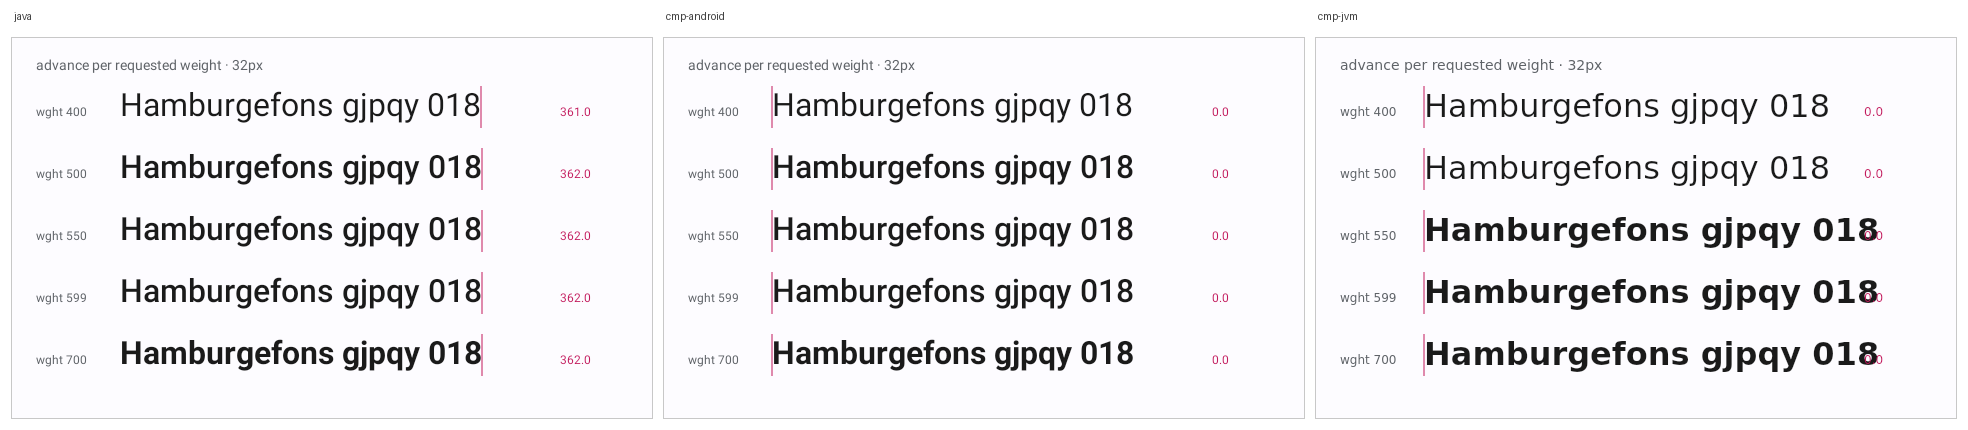
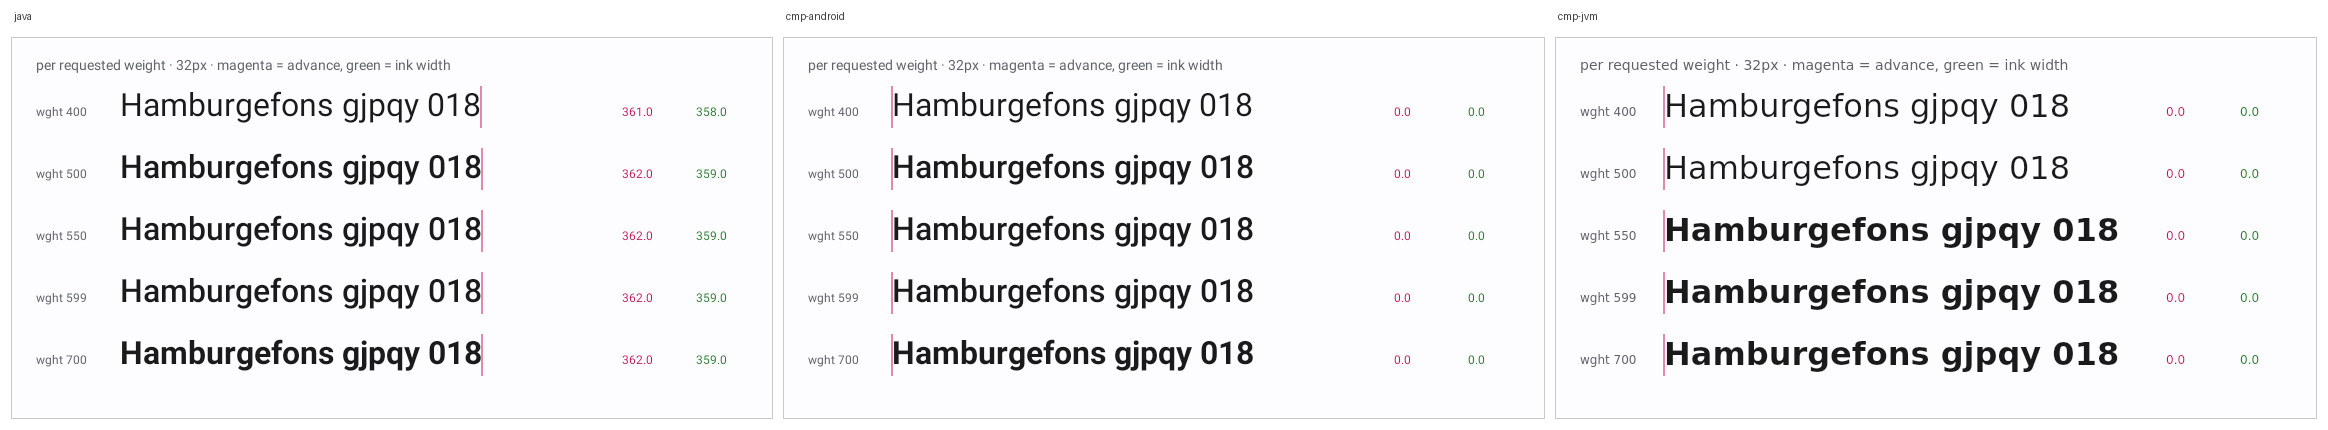
feat(rc-metrics): measure start/end alignment in RTL, and weight with a second number
Both from review on #3599, and both immediately produced findings.

**Start and end alignment, in both directions.** `ALIGN_START` and `ALIGN_END`
are the only alignments whose meaning depends on paragraph direction, and on
English text they land exactly where `ALIGN_LEFT` and `ALIGN_RIGHT` do — so a
six-alignment matrix built only from LTR text passes a lane that hard-coded
start→left while being wrong for every RTL user. The pair is now drawn a second
time against a Hebrew paragraph. All three server-side lanes keep start at the
left edge and end at the right, identically to their LTR twins.

**A second number in the weight sweep.** Equal advances do not prove a reused
face: families are routinely drawn duplexed, keeping advances fixed across
weights on purpose, and the reference render of this very sweep shows 700
visibly bolder than 500 at the same 362.0. Each row now also reports the ink
width, measured off `getTextBounds` rather than `measureText` so it fails
independently. Neither number is a proof alone; the pair read with the glyphs is
a signature — both flat with glyphs visibly bolder means the weight is being
synthesised rather than resolved to a face, which is what the Java lane shows
(362.0 advance / 359.0 ink for 500 through 700).

The claim in the docs is corrected accordingly: the sweep no longer says stacked
rules mean one face drawn five times, because that inference does not hold, and
[…]

diff --git a/rc-player/metrics/src/main/kotlin/ee/schimke/composeai/rcplayer/metrics/RcTextMetricDocuments.kt b/rc-player/metrics/src/main/kotlin/ee/schimke/composeai/rcplayer/metrics/RcTextMetricDocuments.kt
@@ -82,6 +82,21 @@ public object RcTextMetricDocuments {
   /** Short enough to leave slack in the box, without which an alignment is invisible. */
   public const val ALIGNMENT_SPECIMEN: String = "Align this"
 
+  /**
+   * The same job in Hebrew, for the two *semantic* alignments.
+   *
+   * `ALIGN_START` and `ALIGN_END` are the only two alignments whose meaning depends on the
+   * paragraph's direction, and on an English string they land exactly where `ALIGN_LEFT` and
+   * `ALIGN_RIGHT` do. A lane that had simply hard-coded start→left would pass a six-alignment
+   * matrix built only from LTR text while being wrong for every RTL user, so the pair is drawn
+   * twice: once in each direction.
+   *
+   * If a lane has no face covering the script the fixture renders tofu — which still shows *where*
+   * the line was placed, and is itself a font-coverage finding rather than a broken fixture.
+   */
+  public const val RTL_ALIGNMENT_SPECIMEN: String =
+    "\u05e9\u05dc\u05d5\u05dd \u05e2\u05d5\u05dc\u05dd"
+
   /** The weights the sweep draws, including the two non-100 steps that matter in practice. */
   public val SWEEP_WEIGHTS: List<Int> = listOf(400, 500, 550, 599, 700)
 
@@ -201,20 +216,37 @@ public object RcTextMetricDocuments {
   // The weight sweep
   // ---------------------------------------------------------------------------------------------
 
-  private const val SWEEP_WIDTH = 640
+  private const val SWEEP_WIDTH = 760
   private const val SWEEP_ROW_HEIGHT = 62f
   private const val SWEEP_ORIGIN_X = 108f
   private const val SWEEP_SPECIMEN_SIZE = 32f
 
   /**
-   * The same string at five weights, each with its own advance guide and printed advance.
+   * The same string at five weights, each row reporting **two** numbers: the advance, and the width
+   * of the ink box.
    *
    * This is how the variable-font question gets *measured* rather than inferred. #3579 concluded
    * that Google Fonts' CSS API had flattened `wght@450` and `wght@550` to one instance because the
    * two downloads were byte-identical — a strong hint, but a file-size argument. Here the question
-   * is asked of the renderer directly: if the requested weight reaches a real instance, five
-   * weights give five different advances and the magenta rules step apart. If they don't, the rules
-   * stack and the lane is drawing one face five times, whatever the document asked for.
+   * is asked of the renderer directly.
+   *
+   * Two numbers rather than one, because **equal advances do not prove a reused face**. Families
+   * are routinely drawn duplexed on purpose, keeping identical advances across weights while only
+   * the stems thicken. So the advance answers a narrower question than it looks like it answers:
+   * "would this weight reflow the layout". The ink box — `right - left` of `getTextBounds`, a
+   * different measurement off a different code path — fails independently of it.
+   *
+   * Neither number is a proof on its own. What the pair gives you, read together with the glyphs
+   * beside them, is a signature:
+   * - both move → the weight reached a metric-distinct instance;
+   * - both flat, glyphs identical → the weight changed nothing at all;
+   * - both flat, glyphs visibly bolder → the weight is being **synthesised** rather than resolved
+   *   to a face.
+   *
+   * The reference render lands on the third: 362.0 advance and 359.0 ink for 500, 550, 599 and 700
+   * alike, with 700 plainly heavier than 500. Note also that the ink box is integer-quantised
+   * (`Paint.getTextBounds` returns a `Rect`), so it is a coarse instrument at this size — one more
+   * reason to read it as corroboration rather than as the answer.
    *
    * 550 and 599 are in the sweep on purpose. They are the values that fall between the static
    * instances a weight-enumerated stylesheet ships, so they are where a "nearest static instance"
@@ -224,7 +256,13 @@ public object RcTextMetricDocuments {
     val height = (SWEEP_WEIGHTS.size * SWEEP_ROW_HEIGHT + 70f).toInt()
     val operations = buildList {
       add(RcTextData(TEXT_SPECIMEN, SPECIMEN))
-      add(RcTextData(TEXT_TITLE, "advance per requested weight · ${SWEEP_SPECIMEN_SIZE.toInt()}px"))
+      add(
+        RcTextData(
+          TEXT_TITLE,
+          "per requested weight · ${SWEEP_SPECIMEN_SIZE.toInt()}px · " +
+            "magenta = advance, green = ink width",
+        )
+      )
       SWEEP_WEIGHTS.forEachIndexed { index, weight ->
         add(RcTextData(TEXT_SWEEP_LABEL + index, "wght $weight"))
       }
@@ -235,9 +273,11 @@ public object RcTextMetricDocuments {
       SWEEP_WEIGHTS.forEachIndexed { index, weight ->
         val baseline = 78f + index * SWEEP_ROW_HEIGHT
         val floatId = SWEEP_FLOAT_BASE + index
+        val inkFloatId = SWEEP_INK_FLOAT_BASE + index
 
         addAll(textPaint(SPECIMEN_COLOR, SWEEP_SPECIMEN_SIZE, weight = weight))
         add(RcTextMeasure(outId = floatId, textId = TEXT_SPECIMEN, type = RcTextGuide.ADVANCE.type))
+        add(RcTextMeasure(outId = inkFloatId, textId = TEXT_SPECIMEN, type = INK_WIDTH_TYPE))
 
         add(RcNoArg(RcOpcodes.MATRIX_SAVE))
         add(RcTransform2(RcOpcodes.MATRIX_TRANSLATE, literal(SWEEP_ORIGIN_X), literal(baseline)))
@@ -258,14 +298,25 @@ public object RcTextMetricDocuments {
             flags = NO_LEADING_PAD,
           )
         )
-        add(drawText(TEXT_SWEEP_VALUE + index, (SWEEP_WIDTH - 92).toFloat(), baseline))
+        add(drawText(TEXT_SWEEP_VALUE + index, (SWEEP_WIDTH - 150).toFloat(), baseline))
+        addAll(labelPaint(RcTextGuide.INK_RIGHT.colorArgb, LABEL_SIZE))
+        add(
+          RcTextFromFloat(
+            outId = TEXT_SWEEP_INK_VALUE + index,
+            value = reference(inkFloatId),
+            digitsBefore = 3,
+            digitsAfter = 1,
+            flags = NO_LEADING_PAD,
+          )
+        )
+        add(drawText(TEXT_SWEEP_INK_VALUE + index, (SWEEP_WIDTH - 76).toFloat(), baseline))
       }
     }
     return RcTextMetricFixture(
       id = "text-metrics-weight-sweep",
       width = SWEEP_WIDTH,
       height = height,
-      summary = "One string at five weights; the magenta rules are each weight's measured advance.",
+      summary = "One string at five weights, each reporting its measured advance and ink width.",
       document = RcDocument(header(SWEEP_WIDTH, height), operations),
     )
   }
@@ -282,7 +333,12 @@ public object RcTextMetricDocuments {
     val baseline = 78f
     val operations = buildList {
       add(RcTextData(TEXT_SPECIMEN, SPECIMEN))
-      add(RcTextData(TEXT_TITLE, "wght $weight · ${SWEEP_SPECIMEN_SIZE.toInt()}px · advance"))
+      add(
+        RcTextData(
+          TEXT_TITLE,
+          "wght $weight · ${SWEEP_SPECIMEN_SIZE.toInt()}px · advance, ink width",
+        )
+      )
       addAll(background(SWEEP_WIDTH, height))
       addAll(labelPaint(TITLE_COLOR, LABEL_SIZE + 2f))
       add(drawText(TEXT_TITLE, 24f, 32f))
@@ -294,6 +350,9 @@ public object RcTextMetricDocuments {
           textId = TEXT_SPECIMEN,
           type = RcTextGuide.ADVANCE.type,
         )
+      )
+      add(
+        RcTextMeasure(outId = SWEEP_INK_FLOAT_BASE, textId = TEXT_SPECIMEN, type = INK_WIDTH_TYPE)
       )
       add(RcNoArg(RcOpcodes.MATRIX_SAVE))
       add(RcTransform2(RcOpcodes.MATRIX_TRANSLATE, literal(SWEEP_ORIGIN_X), literal(baseline)))
@@ -314,13 +373,24 @@ public object RcTextMetricDocuments {
           flags = NO_LEADING_PAD,
         )
       )
-      add(drawText(TEXT_SWEEP_VALUE, (SWEEP_WIDTH - 92).toFloat(), baseline))
+      add(drawText(TEXT_SWEEP_VALUE, (SWEEP_WIDTH - 150).toFloat(), baseline))
+      addAll(labelPaint(RcTextGuide.INK_RIGHT.colorArgb, LABEL_SIZE))
+      add(
+        RcTextFromFloat(
+          outId = TEXT_SWEEP_INK_VALUE,
+          value = reference(SWEEP_INK_FLOAT_BASE),
+          digitsBefore = 3,
+          digitsAfter = 1,
+          flags = NO_LEADING_PAD,
+        )
+      )
+      add(drawText(TEXT_SWEEP_INK_VALUE, (SWEEP_WIDTH - 76).toFloat(), baseline))
     }
     return RcTextMetricFixture(
       id = "text-metrics-weight-$weight",
       width = SWEEP_WIDTH,
       height = height,
-      summary = "Measured advance of the specimen at wght $weight.",
+      summary = "Measured advance and ink width of the specimen at wght $weight.",
       document = RcDocument(header(SWEEP_WIDTH, height), operations),
     )
   }
@@ -403,6 +473,25 @@ public object RcTextMetricDocuments {
       alignmentModeSpec("align-right", RcTextLayout.ALIGN_RIGHT, "align right"),
       alignmentModeSpec("align-start", RcTextLayout.ALIGN_START, "align start"),
       alignmentModeSpec("align-end", RcTextLayout.ALIGN_END, "align end"),
+      // The same two semantic alignments against an RTL paragraph. Start must flip to the right
+      // edge and end to the left; a lane where these match their LTR twins has resolved `START` to
+      // `LEFT` rather than to the paragraph direction.
+      LayoutMode(
+        "align-start-rtl",
+        2,
+        RcTextLayout.OVERFLOW_CLIP,
+        RcTextLayout.ALIGN_START,
+        RTL_ALIGNMENT_SPECIMEN,
+        "align start · RTL",
+      ),
+      LayoutMode(
+        "align-end-rtl",
+        2,
+        RcTextLayout.OVERFLOW_CLIP,
+        RcTextLayout.ALIGN_END,
+        RTL_ALIGNMENT_SPECIMEN,
+        "align end · RTL",
+      ),
       // Line height is the metric most likely to explain a "heavier"/"looser" block: it moves every
       // baseline after the first without touching a single glyph, so a pixel diff sees a wall of
       // difference and cannot say which of the two knobs moved. Two fixtures, one knob each.
@@ -668,11 +757,22 @@ public object RcTextMetricDocuments {
   private const val TEXT_GUIDE_VALUE_BASE = 140
   private const val TEXT_SWEEP_LABEL = 180
   private const val TEXT_SWEEP_VALUE = 190
+  private const val TEXT_SWEEP_INK_VALUE = 200
 
   // Float ids the measurements write into.
   private const val GUIDE_FLOAT_BASE = 300
   private const val SWEEP_FLOAT_BASE = 340
+  private const val SWEEP_INK_FLOAT_BASE = 350
   private const val MODE_ADVANCE_FLOAT = 360
+
+  /**
+   * `right - left` of the **ink** box — the second, independent number every sweep row reports.
+   *
+   * It comes off `Paint.getTextBounds` rather than `measureText`, so it can disagree with the
+   * advance; that independence, not any claim that it tracks weight reliably, is why it is here. It
+   * is integer-quantised and therefore coarse.
+   */
+  private val INK_WIDTH_TYPE = RcTextMeasurement.type(RcTextMeasurement.WIDTH)
 
   private fun floatId(guide: RcTextGuide) = GUIDE_FLOAT_BASE + guide.ordinal
 

diff --git a/rc-player/metrics/src/test/kotlin/ee/schimke/composeai/rcplayer/metrics/RcTextMetricDocumentsTest.kt b/rc-player/metrics/src/test/kotlin/ee/schimke/composeai/rcplayer/metrics/RcTextMetricDocumentsTest.kt
@@ -132,6 +132,25 @@ class RcTextMetricDocumentsTest {
   }
 
   @Test
+  fun theSemanticAlignmentsAreExercisedInBothDirections() {
+    // `START` and `END` are the only alignments whose meaning depends on paragraph direction, and
+    // on English text they land exactly where `LEFT` and `RIGHT` do. A matrix built only from LTR
+    // text would therefore pass a lane that had hard-coded start→left and is wrong for every RTL
+    // user, so each of the two is drawn once in each direction.
+    val modes = RcTextMetricDocuments.LAYOUT_MODES
+    listOf(RcTextLayout.ALIGN_START, RcTextLayout.ALIGN_END).forEach { align ->
+      val alignmentFixtures = modes.filter {
+        it.align == align && it.specimen != RcTextMetricDocuments.WRAPPING_SPECIMEN
+      }
+      assertTrue(
+        alignmentFixtures.any { it.specimen == RcTextMetricDocuments.ALIGNMENT_SPECIMEN } &&
+          alignmentFixtures.any { it.specimen == RcTextMetricDocuments.RTL_ALIGNMENT_SPECIMEN },
+        "alignment $align is only exercised in one direction",
+      )
+    }
+  }
+
+  @Test
   fun theLayoutModesCoverEveryOverflowAndAlignment() {
     val modes = RcTextMetricDocuments.LAYOUT_MODES
     assertEquals(
@@ -236,7 +255,19 @@ class RcTextMetricDocumentsTest {
     val sweep = RcTextMetricDocuments.weightSweep()
     val measures = sweep.document.operations.filterIsInstance<RcTextMeasure>()
 
-    assertEquals(RcTextMetricDocuments.SWEEP_WEIGHTS.size, measures.size)
+    // Two measurements per weight, and both matter. The advance alone cannot distinguish "the
+    // requested weight reached no new face" from "this family is drawn duplexed, so its weights
+    // deliberately share an advance" — the ink width, which tracks stem thickness, can.
+    assertEquals(RcTextMetricDocuments.SWEEP_WEIGHTS.size * 2, measures.size)
+    assertEquals(
+      RcTextMetricDocuments.SWEEP_WEIGHTS.size,
+      measures.count { it.type == RcTextGuide.ADVANCE.type },
+    )
+    assertEquals(
+      RcTextMetricDocuments.SWEEP_WEIGHTS.size,
+      measures.count { it.type == RcTextMeasurement.type(RcTextMeasurement.WIDTH) },
+      "without a weight-sensitive number the sweep can only ever report the advance",
+    )
     assertEquals(
       measures.size,
       measures.map { it.outId }.toSet().size,

diff --git a/docs/design/RC_TEXT_METRICS.md b/docs/design/RC_TEXT_METRICS.md
@@ -85,11 +85,11 @@ the player thinks the line ends, is then a picture rather than an adjective.
 | fixture | what it answers |
 | --- | --- |
 | `text-metrics-card` | Every metric of one 48px canvas specimen, drawn and labelled. |
-| `text-metrics-weight-{400,500,550,599,700}` | Does the requested weight change the **advance**? |
+| `text-metrics-weight-{400,500,550,599,700}` | Advance **and** ink width, per requested weight. |
 | `text-metrics-weight-sweep` | The same five, stacked, for reading rather than diffing. |
 | `text-metrics-layout-single-*` | `maxLines = 1` against clip / visible / all three ellipses. |
 | `text-metrics-layout-wrap-*` | `maxLines = 3` against clip / ellipsis / justify. |
-| `text-metrics-layout-align-*` | All six `CoreText` alignments. |
+| `text-metrics-layout-align-*` | All six `CoreText` alignments, plus start/end again in RTL. |
 | `text-metrics-layout-line-height-*` | Leading, as an add and as a multiplier (properties 13/14). |
 
 The manifest shape is not new: it is exactly what `rc-compare --stage-embedded` produces and what
@@ -154,12 +154,37 @@ a different *face* than a metrics fault — which is exactly the useful outcome:
 [`RC_PLAYER_TYPEFACES.md`](RC_PLAYER_TYPEFACES.md) rather than at layout, and it is a place to look
 rather than a percentage.
 
-**Weight does not move the advance on `java`.** The sweep reports 361.0 at wght 400 and 362.0 at 500,
-550, 599 and 700 alike, while 700 is visibly bolder than 500. So in the Robolectric sandbox — no
-`/system/fonts/`, so the platform default face — weight quantises to regular/bold and 550 and 599 are
-indistinguishable from 500. The variable-font question from #3579 now has a *measurement* attached to
-it instead of an inference from two identical file sizes; answering it properly needs the same sweep
-run with a real variable face pinned.
+**Weight moves neither number on `java`, but does move the glyphs.** The sweep reports advance
+361.0 / ink 358.0 at wght 400, then 362.0 / 359.0 at 500, 550, 599 and 700 alike — while 700 is
+plainly heavier than 500 in the same image.
+
+Read that carefully, because the obvious reading is wrong. Equal advances **do not** prove a reused
+face: families are routinely drawn duplexed, keeping advances fixed across weights on purpose. That
+is why every row reports a second, independent number off a different code path
+(`Paint.getTextBounds` rather than `measureText`). The pair plus the glyphs is a signature:
+
+| advance | ink width | glyphs | reading |
+| --- | --- | --- | --- |
+| moves | moves | differ | the weight reached a metric-distinct instance |
+| flat | flat | identical | the weight changed nothing at all |
+| flat | flat | differ | the weight is **synthesised**, not resolved to a face |
+
+The reference lane lands on the third row, which is a much more specific answer than "550 and 599
+look the same": in the Robolectric sandbox there is no `/system/fonts/`, so the platform default is
+being emboldened rather than swapped. The variable-font question from #3579 now has a measurement
+attached instead of an inference from two identical file sizes; answering it properly needs the same
+sweep with a real variable face pinned. Note the ink box is integer-quantised, so it is corroboration
+rather than a precise instrument.
+
+**`ALIGN_START` and `ALIGN_END` do not follow paragraph direction on any of the three lanes.** They
+are the only two alignments whose meaning is direction-dependent, and on English text they land
+exactly where `ALIGN_LEFT` and `ALIGN_RIGHT` do — so a matrix built only from LTR text cannot tell a
+correct lane from one that hard-coded start→left. Drawing the pair a second time against a Hebrew
+paragraph shows start still at the left edge and end still at the right, identically on `java`,
+`cmp-android` and `cmp-jvm`. The fixtures carry no explicit layout direction, so the expected
+behaviour is the content-derived one both stacks normally implement (Compose's `TextDirection.Content`,
+Android's `ALIGN_NORMAL` against an RTL paragraph) — which makes this worth chasing rather than
+dismissing as unspecified.
 
 **`maxLines = 3` rendered four lines on `java`**, while `maxLines = 1` was honoured exactly. Recorded
 as an observation, not a diagnosis — it wants checking across lanes before anyone calls it a bug,
@@ -178,6 +203,9 @@ which is what the fixture is for.
 - **A machine-readable metric dump.** The numbers are currently rendered into the image. A per-lane
   JSON table would let the comparison be asserted rather than read, which is what turns this from a
   diagnostic into a gate.
+- **An explicit layout direction.** The RTL alignment fixtures rely on the paragraph direction being
+  derived from content. A variant that states the direction outright would separate "the lane ignores
+  content direction" from "the lane ignores direction entirely".
 - **Font-variation axes.** Weight travels as the paint's typeface style, not as a `wght` axis,
   because the axis path is canvas-unimplemented on some lanes and a fixture meant to be comparable
   across all five must not use an operation two of them decline. An axis-carrying variant belongs

diff --git a/renders/rc-text-metrics/README.md b/renders/rc-text-metrics/README.md
@@ -27,11 +27,26 @@ Two readings, immediately:
 
 ![text-metrics-weight-sweep on java, cmp-android and cmp-jvm](weight-sweep-three-lanes.png)
 
-On `java`: 361.0 at wght 400, then 362.0 at 500, 550, 599 and 700 alike, while 700 is visibly bolder
-than 500. In the Robolectric sandbox there is no `/system/fonts/`, so this is the platform default
-face quantising to regular/bold — 550 and 599 are indistinguishable from 500. The variable-font
-question from #3579 now has a measurement attached rather than an inference from two identical file
-sizes.
+Each row reports **two** numbers: the advance (magenta) and the ink width (green), measured off
+different code paths. On `java`: 361.0 / 358.0 at wght 400, then 362.0 / 359.0 at 500, 550, 599 and
+700 alike — while 700 is plainly heavier than 500 in the same image.
+
+Equal advances alone would prove nothing; families are routinely drawn duplexed, keeping advances
+fixed across weights on purpose. It is the *pair plus the glyphs* that is diagnostic — both numbers
+flat while the glyphs visibly differ is the signature of a **synthesised** weight rather than a
+resolved face, which in the Robolectric sandbox (no `/system/fonts/`) is exactly what you would
+expect. The ink box is integer-quantised, so read it as corroboration rather than as a precise
+instrument.
+
+## Start and end alignment, in both directions
+
+![align start/end, LTR and RTL, on three lanes](alignment-ltr-vs-rtl-three-lanes.png)
+
+`ALIGN_START` and `ALIGN_END` are the only alignments whose meaning depends on paragraph direction,
+and on English text they land exactly where `ALIGN_LEFT` and `ALIGN_RIGHT` do — so an LTR-only matrix
+cannot tell a correct lane from one that hard-coded start→left. Against a Hebrew paragraph, all three
+lanes keep start at the left edge and end at the right. The fixtures state no layout direction, so
+the expected behaviour is the content-derived one both stacks normally implement.
 
 ## The layout-tree modes
 
